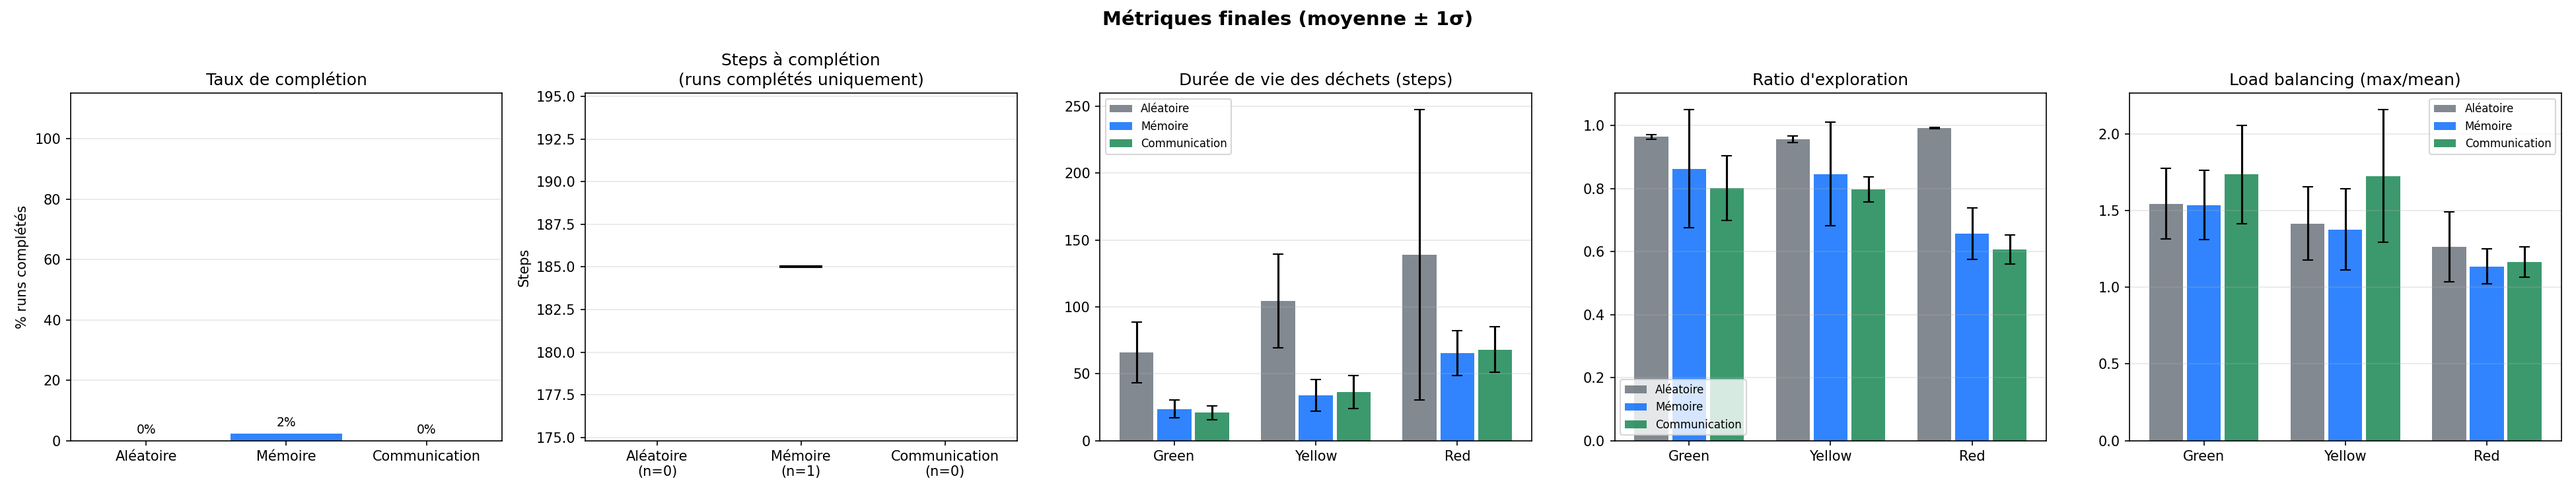
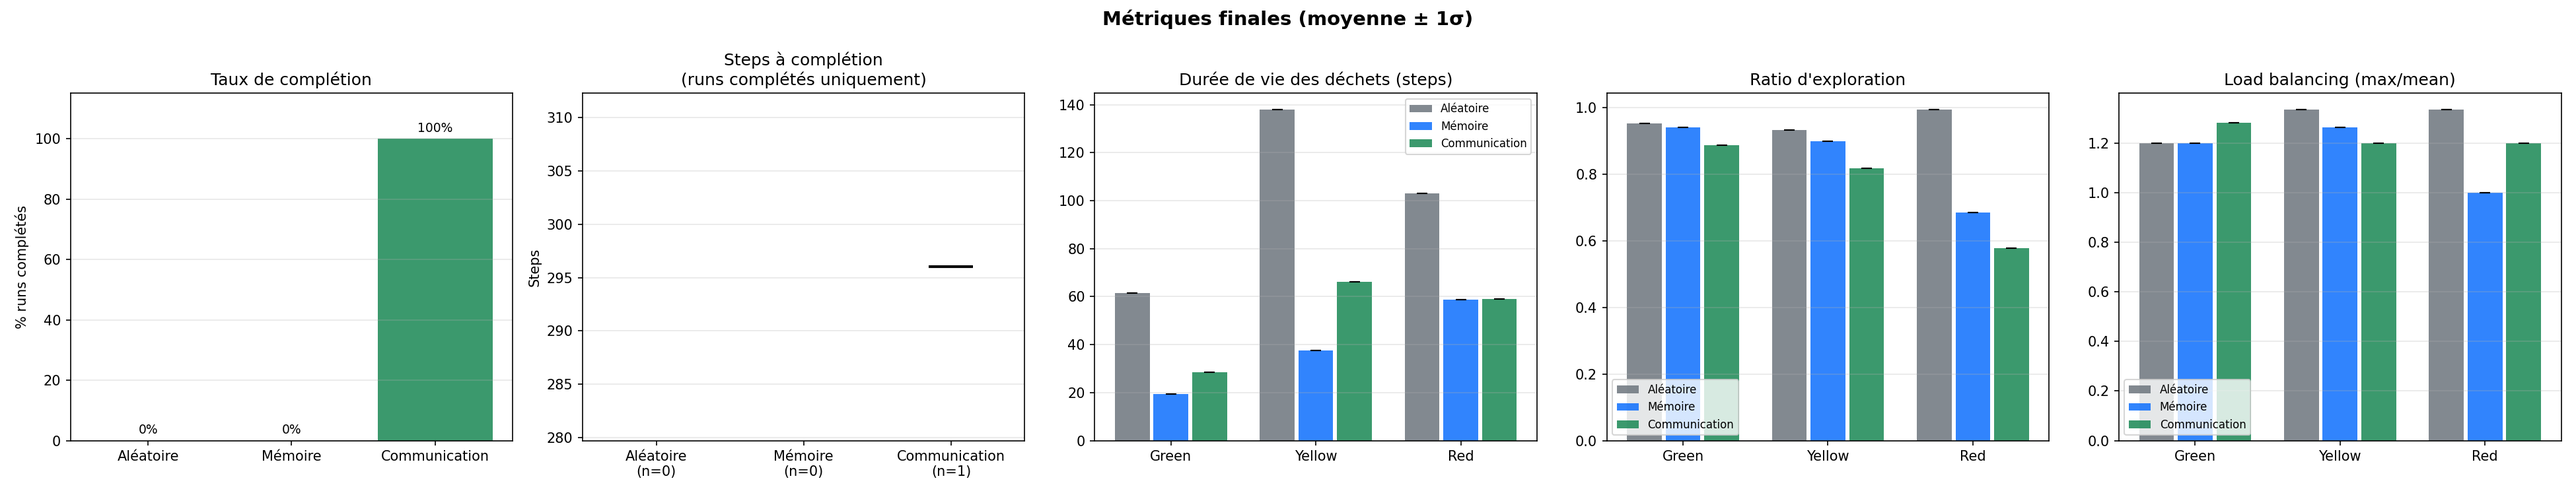
[Major fix] Improve the communication between different color agents : prevent a robot from storing in known-wastes a waste of the wrong color. Fix the boundary finding logic : prevent robots from going too far away from their original zone

diff --git a/group1_robot_mission_MAS2026/agents.py b/group1_robot_mission_MAS2026/agents.py
@@ -207,21 +207,14 @@ class Robot(CommunicatingAgent, ABC):
 
         other_robots = [a for a in cellmates if isinstance(a, Robot)]
 
-        if self.knowledge.min_x_zone:    
-            visitable = (
-            radioactivity_cell.radioactivity <= self.max_radioactivity
-            and pos != self.pos
-            and not other_robots
-            and pos[0] - self.knowledge.min_x_zone > -3
-        )
-        
-        else :
-            visitable = (
+        visitable = (
             radioactivity_cell.radioactivity <= self.max_radioactivity
             and pos != self.pos
             and not other_robots
         )
-        
+        # Confine to own zone + 1 patrol column westward, once the border is known
+        if self.knowledge.min_x_zone is not None:
+            visitable = visitable and pos[0] >= self.knowledge.min_x_zone - 1
 
         return {
             "pos": pos,
@@ -259,6 +252,18 @@ class Robot(CommunicatingAgent, ABC):
         # Snapshot of carried wastes — exactly once per step (file-2 bug fix)
         self.knowledge.carried_wastes.append(self.carrying.copy())
 
+        # # ── anchor zone borders to own-zone cells ────────────────────────────
+        # cur_pos_data = percepts.get(cur_pos)
+        # if cur_pos_data is not None and cur_pos_data.get("my_zone"):
+        #     # Western border: smallest x ever observed while standing in own zone
+        #     if self.knowledge.min_x_zone is None or cur_pos[0] < self.knowledge.min_x_zone:
+        #         self.knowledge.min_x_zone = cur_pos[0]
+        #     # Eastern border: largest x ever observed while standing in own zone
+        #     if self.knowledge.max_x_zone is None or cur_pos[0] > self.knowledge.max_x_zone:
+        #         self.knowledge.max_x_zone = cur_pos[0]
+
+
+
         for pos, data in percepts.items():
             if data is None:
                 continue
@@ -283,9 +288,9 @@ class Robot(CommunicatingAgent, ABC):
 
             cur_pos_data = percepts.get(cur_pos)
             if cur_pos_data is not None:
-                if not cur_pos_data.get("is_higher_zone") and data.get("is_lower_zone"):
+                if not cur_pos_data.get("is_higher_zone") and data.get("is_lower_zone") and cur_pos_data.get("my_zone"):
                     self.knowledge.min_x_zone = cur_pos[0]
-                if not cur_pos_data.get("is_lower_zone") and data.get("is_higher_zone"):
+                if not cur_pos_data.get("is_lower_zone") and data.get("is_higher_zone") and cur_pos_data.get("my_zone"):
                     self.knowledge.max_x_zone = cur_pos[0]
 
             for robot in data.get("robots", []):
@@ -295,9 +300,12 @@ class Robot(CommunicatingAgent, ABC):
     # ── Communication helpers ─────────────────────────────────────────────
 
     def _build_knowledge_message(self) -> dict:
+        """ Include the waste color in the payload. """
+        
         return {
             "timestamp": self.knowledge.round,
             "sender_id": self.unique_id,
+            "sender_color": self.color.value,   # NEW
             "known_wastes": {
                 pos: self.knowledge.last_seen[pos]
                 for pos in self.knowledge.known_wastes
@@ -365,22 +373,22 @@ class Robot(CommunicatingAgent, ABC):
                     continue
 
                 sender_id = payload.get("sender_id")
+                sender_color = payload.get("sender_color")  # NEW
                 msg_timestamp: int = payload.get("timestamp", -1)
                 known_wastes = payload.get("known_wastes")
 
-                if isinstance(known_wastes, dict):
+                # Only ingest same-color waste positions — other-color peers
+                # track wastes that aren't targets for this robot.
+                if isinstance(known_wastes, dict) and sender_color == self.color.value:
                     for pos_raw, round_seen in known_wastes.items():
-                        pos = (
-                            tuple(pos_raw)
-                            if not isinstance(pos_raw, tuple)
-                            else pos_raw
-                        )
+                        pos = tuple(pos_raw) if not isinstance(pos_raw, tuple) else pos_raw
                         if round_seen is None:
                             continue
                         if round_seen > self.knowledge.last_seen.get(pos, -1):
                             self.knowledge.last_seen[pos] = round_seen
                             self.knowledge.known_wastes.add(pos)
 
+                # Keep carried-waste tracking regardless of sender color
                 if sender_id is not None:
                     carried = payload.get("carried_wastes")
                     self.knowledge.data[f"carried_by_{sender_id}"] = {
@@ -1010,7 +1018,7 @@ class RedRobot(Robot):
         if self.random.random() < 1 / Robot.MAX_PATROL_DURATION:
             self.knowledge.must_explore = Robot.EXPLORE_DURATION
 
-        # Move towards z1/z2 boundary to intercept dropped yellow wastes
+        # Move towards z2/z3 boundary to intercept dropped red wastes
         if not knowledge.must_explore and knowledge.min_x_zone is None:
             return self._move_in_direction((-1, 0), knowledge)
 

diff --git a/group1_robot_mission_MAS2026/benchmark.py b/group1_robot_mission_MAS2026/benchmark.py
@@ -251,13 +251,14 @@ def main():
     parser.add_argument("--output-dir", type=str, default=os.path.join(_DIR, "figures"), help="Output directory for figures")
     args = parser.parse_args()
 
-    seeds = list(range(args.seeds))
+    seeds = list(range(args.seeds,args.seeds+1))
+    #seeds = list(range(args.seeds))
     tasks = [(scen, seed, args.max_step, {}) for scen in SCENARIOS for seed in seeds]
     total = len(tasks)
 
     os.makedirs(args.output_dir, exist_ok=True)
 
-    print(f"Running {total} simulations ({len(SCENARIOS)} scenarios × {args.seeds} seeds) ...")
+    print(f"Running {total} simulations ({len(SCENARIOS)} scenarios × {len(seeds)} seeds) ...")
 
     results = []
     errors = []

diff --git a/group1_robot_mission_MAS2026/utils.py b/group1_robot_mission_MAS2026/utils.py
@@ -108,22 +108,6 @@ class Transform(Action):
         self.wastes = wastes
 
 
-class PickUp(Action):
-    def __init__(self, waste):
-        super().__init__(ActionType.PICK_UP)
-        self.waste = waste
-
-
-class PutDown(Action):
-    def __init__(self, waste):
-        super().__init__(ActionType.PUT_DOWN)
-        self.waste = waste
-
-
-class Transform(Action):
-    def __init__(self, wastes: list):
-        super().__init__(ActionType.TRANSFORM)
-        self.wastes = wastes
 
 class SendMessages(Action):
     def __init__(self, messages: list):
